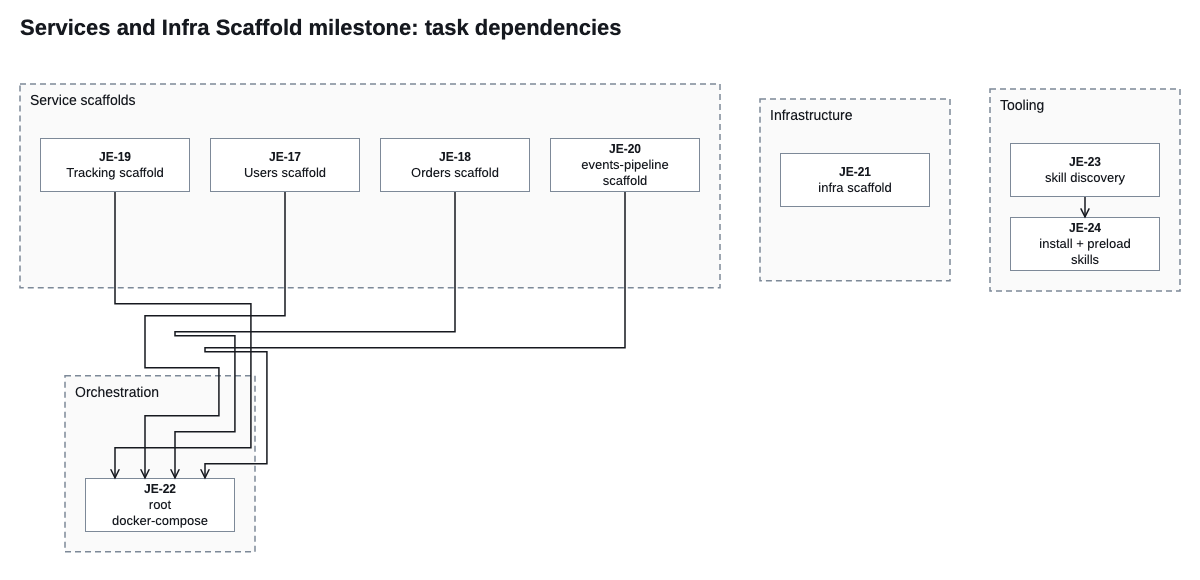
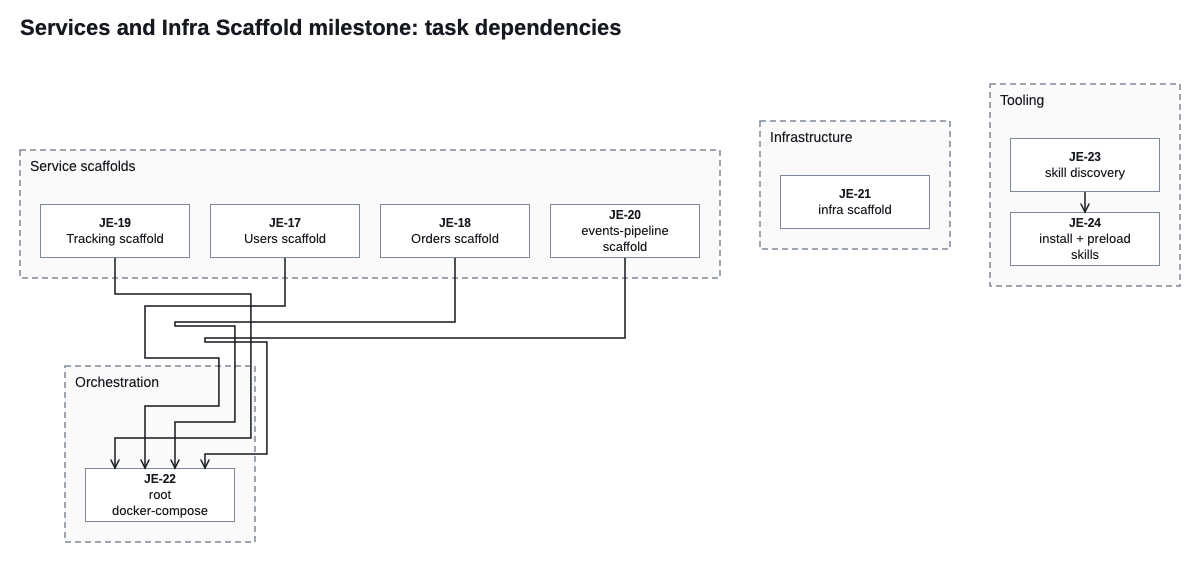
feat(diagrams): let edges start or end on a group frame
Shared connections of a group draw once from its frame, as AWS reference diagrams do.

Plan: docs/superpowers/plans/2026-10-07-aws-style-diagrams.md

diff --git a/diagrams/src/aws/layout.ts b/diagrams/src/aws/layout.ts
@@ -61,7 +61,7 @@ function nodeBox(n: AwsDiagramData["nodes"][number]): { w: number; h: number; la
   return { w, h, labelLines };
 }
 
-type Side = "WEST" | "EAST" | "NORTH";
+type Side = "WEST" | "EAST" | "NORTH" | "SOUTH";
 type EdgeSides = Map<string, { from: Side; to: Side; back?: boolean }>;
 type Centres = Map<string, Point>;
 
@@ -76,7 +76,7 @@ function flowSides(d: AwsDiagramData): EdgeSides {
 
 // CONTRACT: no edge ends on a SOUTH side: below an icon sits its label. Back edges leave and enter on the
 // sides facing each other and reach ELK reversed (`back`), so they never loop around a group or the canvas.
-function facingSides(d: AwsDiagramData, c: Centres): EdgeSides {
+function facingSides(d: AwsDiagramData, c: Centres, frames: Record<string, Rect>): EdgeSides {
   const out: EdgeSides = new Map();
   for (const e of d.edges) {
     if (e.from === e.to) continue;
@@ -91,6 +91,23 @@ function facingSides(d: AwsDiagramData, c: Centres): EdgeSides {
     else out.set(e.id, across());
   }
   for (const e of d.edges) if (e.from === e.to) out.set(e.id, loopSides(e.from, d, out));
+  // A group end takes the frame side facing the far end; a group has no label below, so SOUTH is fine.
+  const groupIds = new Set(d.groups.map((g) => g.id));
+  for (const e of d.edges) {
+    const s = out.get(e.id)!;
+    const facing = (self: string, other: string): Side => {
+      const [a, b] = [c.get(self)!, c.get(other)!];
+      const [dx, dy] = [b.x - a.x, b.y - a.y];
+      const side: Side = Math.abs(dx) >= Math.abs(dy) ? (dx >= 0 ? "EAST" : "WEST") : (dy >= 0 ? "SOUTH" : "NORTH");
+      const frame = frames[self]!;
+      const label = d.groups.find((g) => g.id === self)!.label;
+      // WHY: a header spanning the top leaves no room for a port there; the side facing the far end takes it.
+      const roomy = frame.w - groupHeaderRect(frame, label).w - 2 * GROUP_PORT_MARGIN >= 0;
+      return side === "NORTH" && !roomy ? (dx >= 0 ? "EAST" : "WEST") : side;
+    };
+    if (groupIds.has(e.from)) s.from = facing(e.from, e.to);
+    if (groupIds.has(e.to)) s.to = facing(e.to, e.from);
+  }
   return out;
 }
 
@@ -157,7 +174,34 @@ function iconPorts(d: AwsDiagramData, sides: EdgeSides, c: Centres | undefined, 
   return ports;
 }
 
-function buildGraph(d: AwsDiagramData, labelLines: Map<string, string[]>, sides: EdgeSides, centres: Centres | undefined, lanes: Lanes): ElkNode {
+const GROUP_PORT_MARGIN = 12;
+
+/** Group-frame ports per group, ranked along each side by the far endpoint so their routes do not cross. */
+function groupPortsBySide(d: AwsDiagramData, sides: EdgeSides, c: Centres | undefined) {
+  const groupIds = new Set(d.groups.map((g) => g.id));
+  const raw = new Map<string, { id: string; side: Side; key: number }[]>();
+  d.edges.forEach((e, i) => {
+    for (const which of ["from", "to"] as const) {
+      const gid = e[which];
+      if (!groupIds.has(gid)) continue;
+      const side = sides.get(e.id)![which];
+      const far = c?.get(e[which === "from" ? "to" : "from"]);
+      const key = far ? (side === "NORTH" || side === "SOUTH" ? far.x : far.y) : i;
+      raw.set(gid, [...(raw.get(gid) ?? []), { id: portId(e.id, which), side, key }]);
+    }
+  });
+  const out = new Map<string, { id: string; side: Side; rank: number; count: number }[]>();
+  for (const [gid, list] of raw) {
+    const ranked = list.map((p) => {
+      const same = list.filter((q) => q.side === p.side).sort((a, b) => a.key - b.key);
+      return { id: p.id, side: p.side, rank: same.indexOf(p), count: same.length };
+    });
+    out.set(gid, ranked);
+  }
+  return out;
+}
+
+function buildGraph(d: AwsDiagramData, labelLines: Map<string, string[]>, sides: EdgeSides, centres: Centres | undefined, lanes: Lanes, frames?: Record<string, Rect>): ElkNode {
   const root: ElkNode = { id: ROOT, layoutOptions: { ...ROOT_OPTIONS, "elk.direction": d.direction }, children: [], edges: [] };
   const elkGroups = new Map<string, ElkNode>();
   for (const g of d.groups) {
@@ -170,9 +214,30 @@ function buildGraph(d: AwsDiagramData, labelLines: Map<string, string[]>, sides:
         ...EDGE_SPACING,
         "elk.padding": `[top=${AWS.groupHeader + AWS.groupPad + HEADER_LANE * (lanes.get(g.id) ?? 0)},left=${AWS.groupPad},bottom=${AWS.groupPad},right=${AWS.groupPad}]`,
         "elk.nodeSize.constraints": "MINIMUM_SIZE",
-        "elk.nodeSize.minimum": `(${minW},${AWS.groupHeader + AWS.groupPad * 2})`,
+        // WORKAROUND(provider): Do NOT pass the minimum as (w,h) in a DOWN layout: elkjs 0.12 reads a compound
+        // node's minimum transposed there, and the frame comes out narrower than its header label.
+        "elk.nodeSize.minimum": d.direction === "DOWN" ? `(${AWS.groupHeader + AWS.groupPad * 2},${minW})` : `(${minW},${AWS.groupHeader + AWS.groupPad * 2})`,
       },
     });
+  }
+  // CONTRACT: a group endpoint is a port on the group's frame, never in its header band. Before the frame's
+  // size is known ELK picks the spot on the side; afterwards ports spread over the side's free stretch.
+  const groupIds = new Set(d.groups.map((g) => g.id));
+  for (const [gid, list] of groupPortsBySide(d, sides, centres)) {
+    const g = elkGroups.get(gid)!;
+    const frame = frames?.[gid];
+    const label = d.groups.find((x) => x.id === gid)!.label;
+    g.ports = list.map((p) => {
+      const port: ElkPort = { id: p.id, width: 0, height: 0, layoutOptions: { "elk.port.side": p.side } };
+      if (!frame) return port;
+      const along = p.side === "NORTH" || p.side === "SOUTH" ? frame.w : frame.h;
+      const lo = p.side === "NORTH" ? groupHeaderRect({ x: 0, y: 0, w: 0, h: 0 }, label).w + GROUP_PORT_MARGIN
+        : p.side === "SOUTH" ? GROUP_PORT_MARGIN : GROUP_ICON + GROUP_PORT_MARGIN;
+      const hi = along - GROUP_PORT_MARGIN;
+      const t = hi > lo ? lo + ((hi - lo) * (p.rank + 1)) / (p.count + 1) : along / 2;
+      return { ...port, ...(p.side === "NORTH" ? { x: t, y: 0 } : p.side === "SOUTH" ? { x: t, y: frame.h } : p.side === "WEST" ? { x: 0, y: t } : { x: frame.w, y: t }) };
+    });
+    Object.assign(g.layoutOptions!, { "elk.portConstraints": frame ? "FIXED_POS" : "FIXED_SIDE" });
   }
   const childrenOf = (parent: string | undefined) => (parent ? elkGroups.get(parent)! : root).children!;
   for (const g of d.groups) childrenOf(g.parent).push(elkGroups.get(g.id)!);
@@ -185,7 +250,8 @@ function buildGraph(d: AwsDiagramData, labelLines: Map<string, string[]>, sides:
     childrenOf(n.group).push({ id: n.id, width: box.w, height: box.h, ports: ports.get(n.id) ?? [],
       layoutOptions: { "elk.portConstraints": "FIXED_POS" } });
   }
-  const end = (e: AwsDiagramData["edges"][number], which: "from" | "to") => (widths.has(e[which]) ? portId(e.id, which) : e[which]);
+  const end = (e: AwsDiagramData["edges"][number], which: "from" | "to") =>
+    (widths.has(e[which]) || groupIds.has(e[which]) ? portId(e.id, which) : e[which]);
   for (const e of d.edges) {
     const labels: ElkLabel[] = e.label
       ? [{ id: `${e.id}__label`, text: e.label, width: textWidth(e.label, AWS.edgeLabelFont) + 8, height: LINE_H, layoutOptions: { "elk.edgeLabels.placement": "CENTER" } }]
@@ -200,17 +266,17 @@ function buildGraph(d: AwsDiagramData, labelLines: Map<string, string[]>, sides:
 // nodes and the final pass gives every edge the sides facing its far endpoint.
 export async function layoutDiagram(d: AwsDiagramData): Promise<DiagramLayout> {
   const first = await place(d, flowSides(d), undefined, new Map());
-  const centres: Centres = new Map(Object.entries(first.nodes).map(([id, r]) => [id, { x: r.x + r.w / 2, y: r.y + r.h / 2 }]));
-  const sides = facingSides(d, centres);
-  const out = await place(d, sides, centres, new Map());
+  const centres: Centres = new Map(Object.entries({ ...first.groups, ...first.nodes }).map(([id, r]) => [id, { x: r.x + r.w / 2, y: r.y + r.h / 2 }]));
+  const sides = facingSides(d, centres, first.groups);
+  const out = await place(d, sides, centres, new Map(), first.groups);
   // WHY: a group whose header several routes cross is laid out again with one lane per extra route.
   const lanes: Lanes = new Map([...out.headerCrossings].filter(([, n]) => n > 1).map(([g, n]) => [g, n - 1]));
-  return lanes.size ? place(d, sides, centres, lanes) : out;
+  return lanes.size ? place(d, sides, centres, lanes, out.groups) : out;
 }
 
-async function place(d: AwsDiagramData, sides: EdgeSides, centres: Centres | undefined, lanes: Lanes): Promise<DiagramLayout & { headerCrossings: Map<string, number> }> {
+async function place(d: AwsDiagramData, sides: EdgeSides, centres: Centres | undefined, lanes: Lanes, frames?: Record<string, Rect>): Promise<DiagramLayout & { headerCrossings: Map<string, number> }> {
   const labelLines = new Map<string, string[]>();
-  const result = await elk.layout(buildGraph(d, labelLines, sides, centres, lanes));
+  const result = await elk.layout(buildGraph(d, labelLines, sides, centres, lanes, frames));
   const groupIds = new Set(d.groups.map((g) => g.id));
   const out: DiagramLayout = { width: result.width ?? 0, height: (result.height ?? 0) + AWS.titleH, groups: {}, nodes: {}, edges: {} };
 

diff --git a/diagrams/test/aws-layout.test.ts b/diagrams/test/aws-layout.test.ts
@@ -1,5 +1,5 @@
 import { describe, expect, it } from "vitest";
-import { layoutDiagram, type Point, type Rect } from "../src/aws/layout";
+import { groupHeaderRect, layoutDiagram, type Point, type Rect } from "../src/aws/layout";
 import { AwsDiagramData } from "../src/aws/schema";
 
 const inside = (a: Rect, b: Rect) => a.x >= b.x - 0.5 && a.y >= b.y - 0.5 && a.x + a.w <= b.x + b.w + 0.5 && a.y + a.h <= b.y + b.h + 0.5;
@@ -255,5 +255,72 @@ describe("per-edge ports", async () => {
     const [u, c] = [centre(l.nodes.users!), centre(l.nodes.cognito!)];
     const length = pts.slice(1).reduce((sum, p, i) => sum + Math.abs(p.x - pts[i]!.x) + Math.abs(p.y - pts[i]!.y), 0);
     expect(length).toBeLessThanOrEqual(Math.abs(u.x - c.x) + Math.abs(u.y - c.y) + 140);
+  });
+});
+
+describe("group endpoints", () => {
+  const onFrame = (p: Point, r: Rect) => onBorder(p, r);
+  const icon = (r: Rect): Rect => ({ x: r.x + (r.w - 48) / 2, y: r.y, w: 48, h: 48 });
+  const header = (r: Rect, label: string) => groupHeaderRect(r, label);
+  const inBand = (p: Point, h: Rect) => p.x >= h.x - 1 && p.x <= h.x + h.w + 1 && p.y >= h.y - 1 && p.y <= h.y + h.h + 1;
+
+  for (const direction of ["RIGHT", "DOWN"] as const) {
+    const d = AwsDiagramData.parse({
+      title: "Groups",
+      direction,
+      groups: [
+        { id: "floci", kind: "local-floci", label: "Floci (:4566)" },
+        { id: "vpc", kind: "vpc", label: "VPC 10.0.0.0/16", parent: "floci" },
+        { id: "subnets", kind: "private-subnet", label: "Subnets a + b", parent: "vpc" },
+        { id: "compose", kind: "generic", label: "Docker Compose: services" },
+      ],
+      nodes: [
+        { id: "web", label: "Browser", icon: "client" },
+        { id: "orders", label: "Orders", icon: "server", group: "compose" },
+        { id: "users", label: "Users", icon: "server", group: "compose" },
+        { id: "cache", label: "ElastiCache", icon: "elasticache", group: "floci" },
+        { id: "db", label: "RDS", icon: "rds", group: "subnets" },
+        { id: "topic", label: "Events topic", icon: "sns", group: "floci" },
+      ],
+      edges: [
+        { id: "node-group", from: "web", to: "compose", label: "HTTP" },
+        { id: "group-node", from: "compose", to: "cache", label: "cache" },
+        { id: "group-nested", from: "compose", to: "subnets", label: "SQL" },
+        { id: "group-async", from: "compose", to: "topic", async: true },
+        { id: "inside", from: "orders", to: "users", label: "gRPC" },
+      ],
+    });
+    it(`${direction}: ends a group edge on the group's frame (outside its header) and a node edge on the icon`, async () => {
+      const l = await layoutDiagram(d);
+      const groupIds = new Set(d.groups.map((g) => g.id));
+      const anchor = (id: string) => (groupIds.has(id) ? l.groups[id]! : icon(l.nodes[id]!));
+      for (const e of d.edges) {
+        const pts = l.edges[e.id]!.points;
+        for (const [id, p] of [[e.from, pts[0]!], [e.to, pts[pts.length - 1]!]] as const) {
+          expect(onFrame(p, anchor(id)), `${e.id} end on ${id}`).toBe(true);
+          if (groupIds.has(id)) expect(inBand(p, header(l.groups[id]!, d.groups.find((g) => g.id === id)!.label)), `${e.id} in ${id} header`).toBe(false);
+        }
+      }
+    });
+    it(`${direction}: routes group edges clear of every node`, async () => {
+      const l = await layoutDiagram(d);
+      for (const e of d.edges) {
+        const pts = l.edges[e.id]!.points;
+        for (const n of d.nodes) {
+          if (n.id === e.from || n.id === e.to) continue;
+          for (let i = 1; i < pts.length; i++) expect(segHitsRect(pts[i - 1]!, pts[i]!, l.nodes[n.id]!), `${e.id} crosses ${n.id}`).toBe(false);
+        }
+      }
+    });
+  }
+  it("DOWN: makes every group frame at least as wide as its header", async () => {
+    const d = AwsDiagramData.parse({
+      title: "Down", direction: "DOWN",
+      groups: [{ id: "compose", kind: "generic", label: "Docker Compose: services" }, { id: "vpc", kind: "vpc", label: "VPC 10.0.0.0/16" }],
+      nodes: [{ id: "a", label: "A", icon: "server", group: "compose" }, { id: "b", label: "B", icon: "rds", group: "vpc" }],
+      edges: [{ id: "ab", from: "a", to: "b" }],
+    });
+    const l = await layoutDiagram(d);
+    for (const g of d.groups) expect(l.groups[g.id]!.w, g.id).toBeGreaterThanOrEqual(groupHeaderRect(l.groups[g.id]!, g.label).w);
   });
 });

diff --git a/diagrams/src/aws/schema.ts b/diagrams/src/aws/schema.ts
@@ -30,6 +30,7 @@ export const AwsDiagramData = z
     nodes: z
       .array(z.object({ id: Id, label: z.string().min(1).max(32), sublabel: z.string().max(32).optional(), icon: NodeIcon, group: Id.optional() }))
       .max(24),
+    // CONTRACT: `from`/`to` name a node or a group; a group endpoint draws one connection from its frame.
     edges: z.array(z.object({ id: Id, from: Id, to: Id, label: z.string().max(24).optional(), async: z.boolean().optional() })).max(30),
     steps: z.array(z.object({ edges: z.array(Id).min(1), caption: z.string().min(1).max(90) })).max(10).default([]),
   })
@@ -55,11 +56,19 @@ export const AwsDiagramData = z
     });
     const nodes = new Set(d.nodes.map((n) => n.id));
     d.nodes.forEach((n, i) => { if (n.group && !groups.has(n.group)) fail(`unknown group "${n.group}"`, ["nodes", i]); });
+    const nodeGroup = new Map(d.nodes.flatMap((n) => (n.group ? [[n.id, n.group] as const] : [])));
     const edges = new Set<string>();
     d.edges.forEach((e, i) => {
       if (edges.has(e.id)) fail(`duplicate edge id "${e.id}"`, ["edges", i]);
       edges.add(e.id);
-      for (const id of [e.from, e.to]) if (!nodes.has(id)) fail(`unknown node "${id}"`, ["edges", i]);
+      for (const id of [e.from, e.to]) if (!nodes.has(id) && !groups.has(id)) fail(`unknown node or group "${id}"`, ["edges", i]);
+      const within = (inner: string, outer: string) => {
+        let cur = nodeGroup.get(inner) ?? (groups.has(inner) ? inner : undefined);
+        for (let hops = 0; cur && hops <= d.groups.length; hops++, cur = groups.get(cur)?.parent) if (cur === outer) return true;
+        return false;
+      };
+      const contains = (g: string, other: string) => groups.has(g) && within(other, g);
+      if (contains(e.from, e.to) || contains(e.to, e.from)) fail(`edge "${e.id}" connects a group to itself or its own content`, ["edges", i]);
     });
     d.steps.forEach((s, i) => { for (const id of s.edges) if (!edges.has(id)) fail(`unknown edge "${id}"`, ["steps", i]); });
   });

diff --git a/diagrams/test/aws-schema.test.ts b/diagrams/test/aws-schema.test.ts
@@ -30,8 +30,20 @@ describe("AwsDiagramData", () => {
   it("accepts a valid diagram", () => {
     expect(AwsDiagramData.parse(ok).nodes).toHaveLength(3);
   });
-  it("rejects an edge to an unknown node", () => {
-    expect(issues({ ...ok, edges: [{ id: "e1", from: "browser", to: "ghost" }] })).toContain('unknown node "ghost"');
+  it("rejects an edge to an unknown node or group", () => {
+    expect(issues({ ...ok, edges: [{ id: "e1", from: "browser", to: "ghost" }] })).toContain('unknown node or group "ghost"');
+  });
+  it("accepts a group as an edge endpoint", () => {
+    const d = AwsDiagramData.parse({ ...ok, edges: [{ id: "g1", from: "vpc", to: "browser" }, { id: "g2", from: "browser", to: "cloud" }], steps: [] });
+    expect(d.edges.map((e) => [e.from, e.to])).toEqual([["vpc", "browser"], ["browser", "cloud"]]);
+  });
+  it.each([
+    ["a group to its own node", "vpc", "users"],
+    ["a node to a group containing it", "users", "cloud"],
+    ["a group to its child group", "cloud", "vpc"],
+    ["a group to itself", "vpc", "vpc"],
+  ])("rejects an edge from %s", (_what, from, to) => {
+    expect(issues({ ...ok, edges: [{ id: "bad", from, to }], steps: [] })).toContain('edge "bad" connects a group to itself or its own content');
   });
   it("rejects a step referencing an unknown edge", () => {
     expect(issues({ ...ok, steps: [{ edges: ["nope"], caption: "x" }] })).toContain('unknown edge "nope"');

diff --git a/diagrams/CLAUDE.md b/diagrams/CLAUDE.md
@@ -53,7 +53,7 @@ Serverless or regional services (SQS, SNS, Cognito, S3, SES, Lambda, API Gateway
 1. Add the data file under `src/data/<kind>/` and its entry in `src/data/<group>.catalog.ts` (never directly in `src/catalog.ts`), with `source` set to the data file's repo-relative path (e.g. `diagrams/src/data/flows/users-signup-otp.ts`). The catalog test requires it to exist and be tracked.
 2. Every entry declares `watches`: globs of the handlers/modules the diagram depicts, not whole service trees. `test/catalog.test.ts` fails when a glob matches nothing, and `make diagrams-check` relies on them. A typo silently disables drift detection, so keep them tight and real. `source`, `src/aws/**` and `src/theme/**` are implicit watches; test files never count as drift.
 3. `id`, `output` and the output **basename** must be unique across the catalog (Obsidian resolves an embed by basename). `output` has no extension; the renderer adds `.gif` and `.png`.
-4. Edges reference declared node ids and steps reference declared edge ids; the schema rejects unknown and duplicate ids.
+4. Edges reference declared node or group ids (never a group and its own content) and steps reference declared edge ids; the schema rejects unknown and duplicate ids.
 5. AWS icons: only `src/theme/aws-icons.ts` imports icon packages (`@nxavis/aws-icons` for services, the committed official SVGs for groups and generic icons). Everything else asks the adapter.
 
 ## Authoring rules
@@ -61,6 +61,7 @@ Serverless or regional services (SQS, SNS, Cognito, S3, SES, Lambda, API Gateway
 Full text: [[diagrams]]. In short:
 
 - Declare structure, not coordinates: groups, nodes, edges, `direction`. If a layout looks wrong, fix the data (grouping, direction, fewer edges), never add positions.
+- When several nodes of a group share a connection, draw ONE edge from (or to) the group: `from`/`to` accept a group id, and the edge meets the group's frame. Never repeat the same connection per member.
 - Keep names short; a single long word next to an icon wraps mid-word.
 - Never animate the whole canvas. GIF budget: changed pixels per frame drive the size; the renderer only lights the active step's edges, so keep steps few and focused.
 
